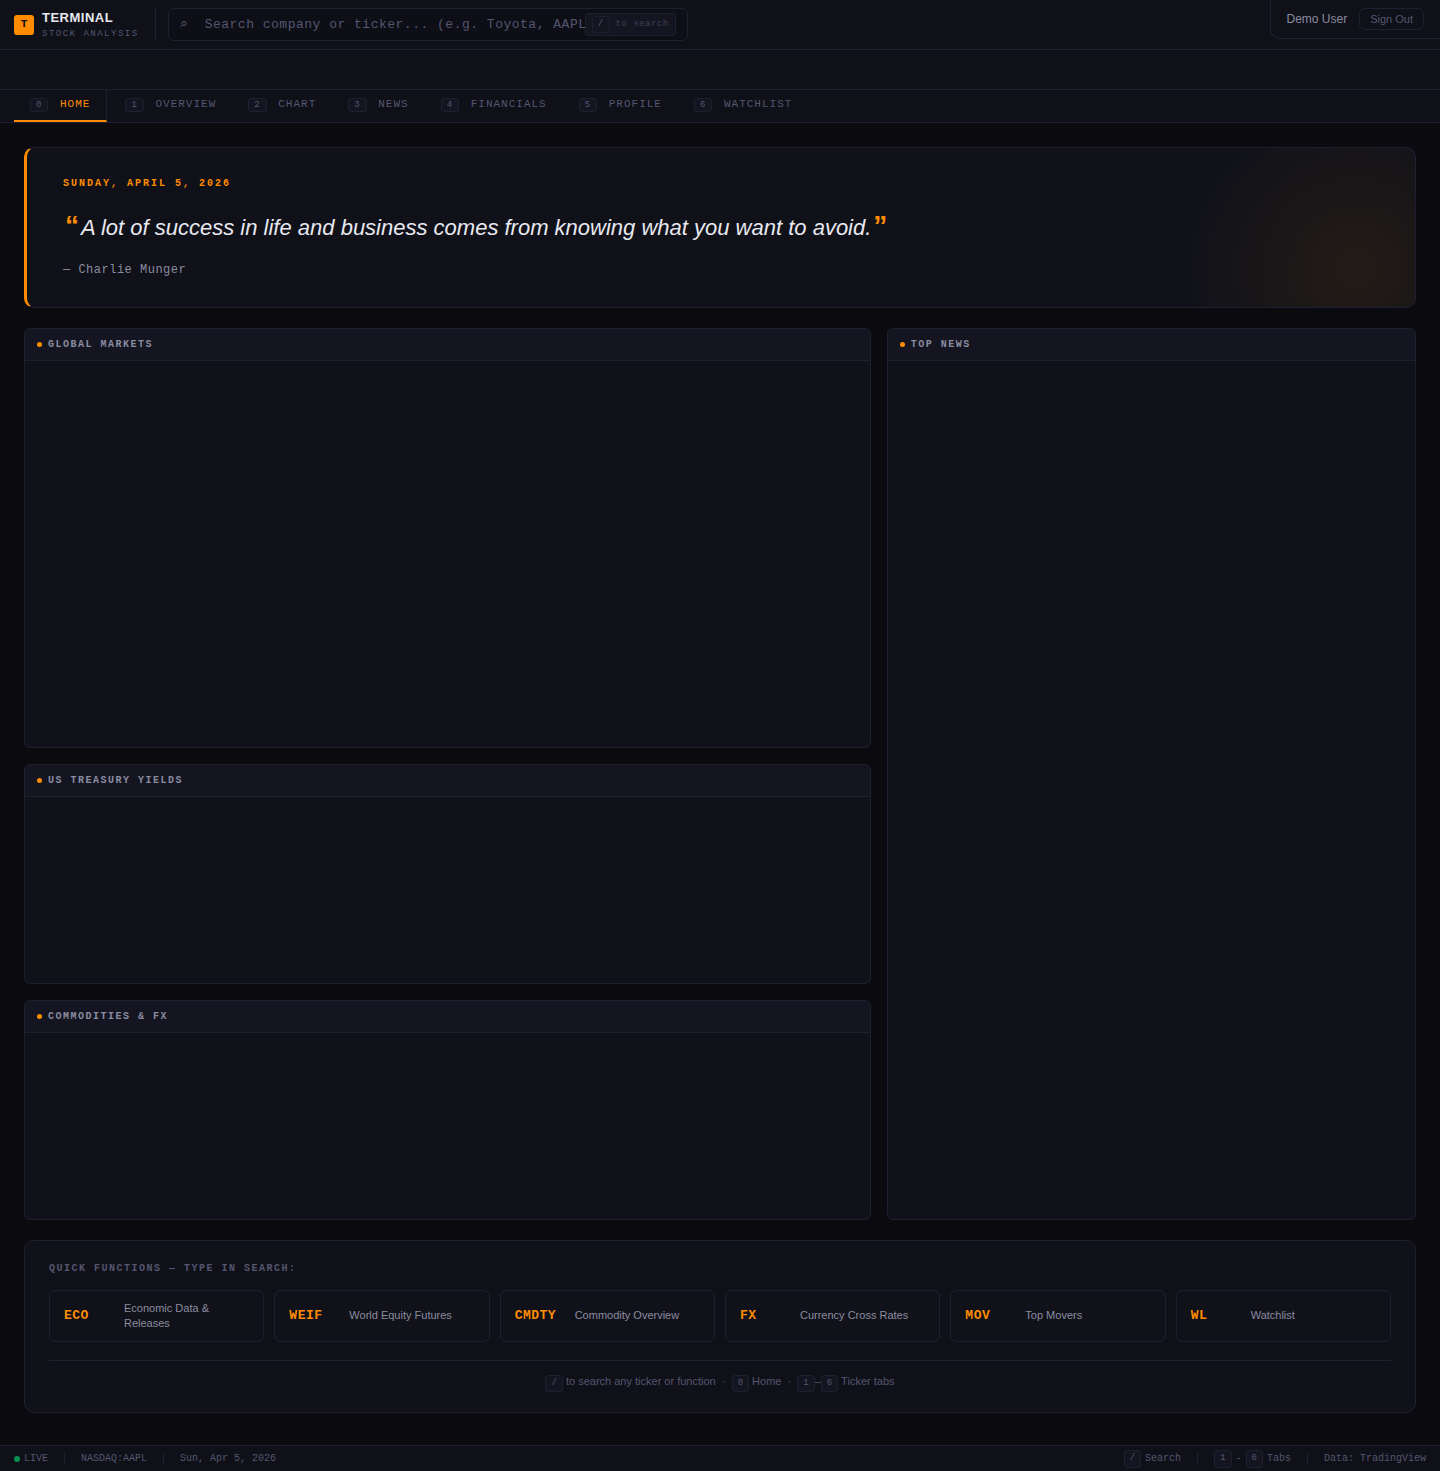
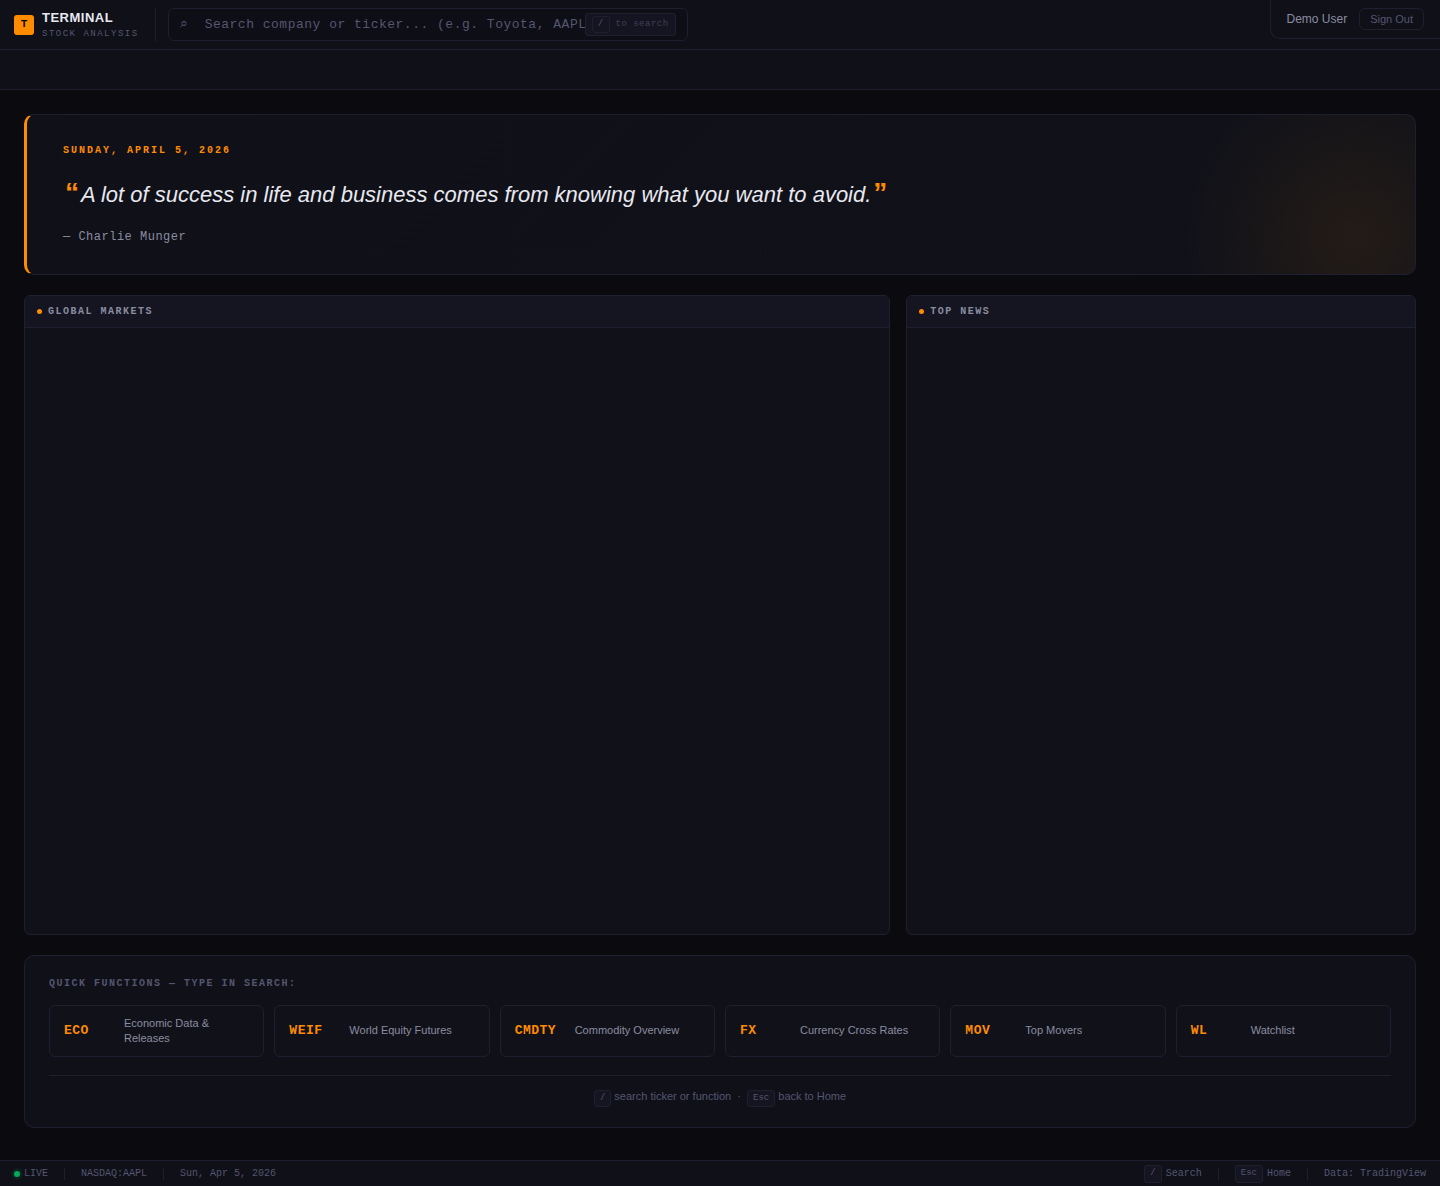
Clean up Home page: curated markets, Escape→Home, hide tabs without symbol
Data fixes:
- Drop US Treasury Yields and Commodities & FX bottom panels (TV embed
  widgets gate bond-yield, CME futures, CBOE:VIX and TVC:DXY data behind
  a TradingView login, so they rendered empty)
- Enlarge Global Markets panel to fill the left column at full height
- Replace CBOE:VIX with TVC:VIX (publicly accessible)
- Remove TVC:DXY from Forex tab (login-gated)
- Replace login-gated Futures + Bonds tabs with Commodities (OANDA spot
  metals + TVC:USOIL/UKOIL) and Crypto (BITSTAMP/BINANCE) — all free

Hotkey / navigation fixes:
- Remove Home tab from nav; numbered tabs (1-6) now only appear after a
  symbol is loaded and disappear again when returning to Home
- Remove the 0 keyboard binding
- Escape now returns to Home (Bloomberg-style); modal-close still takes
  priority when the article modal is open
- 1-6 tab bindings are inert until a ticker is loaded (future work:
  asset-class-aware tab bindings — e.g. different tabs for commodities)
- Symbol bar stays hidden on Home and auto-shows when a ticker is loaded
- Update status-bar hint from "1-6 Tabs" to "Esc Home"

https://claude.ai/code/session_01BafKx9AAMBXJWpF5u4ngU4

diff --git a/app.js b/app.js
@@ -552,7 +552,9 @@ function initTabs() {
 function setActiveTab(tabName) {
   state.activeTab = tabName;
   $$('.nav-tabs__tab').forEach((t) => t.classList.remove('nav-tabs__tab--active'));
-  $(`.nav-tabs__tab[data-tab="${tabName}"]`).classList.add('nav-tabs__tab--active');
+  // Home has no dedicated tab button — guard the lookup.
+  const activeBtn = $(`.nav-tabs__tab[data-tab="${tabName}"]`);
+  if (activeBtn) activeBtn.classList.add('nav-tabs__tab--active');
   destroyLightweightCharts();
   loadTabContent(tabName);
 }
@@ -560,16 +562,20 @@ function setActiveTab(tabName) {
 function loadTabContent(tabName) {
   const dashboard = $('#dashboard');
   const symbolBar = $('#symbol-bar');
+  const navTabs = $('#nav-tabs');
 
-  // Show the active-symbol bar only when viewing a ticker-bound tab.
+  // On Home: hide the stock-context nav-tabs and the symbol bar.
+  // On any ticker tab: show them (tabs stay stock-specific for now;
+  // future: asset-class-aware tab bindings).
   if (tabName === 'home') {
     if (symbolBar) symbolBar.style.display = 'none';
-  } else if (state.symbolLoaded && symbolBar) {
-    symbolBar.style.display = '';
+    if (navTabs) navTabs.style.display = 'none';
+  } else if (state.symbolLoaded) {
+    if (symbolBar) symbolBar.style.display = '';
+    if (navTabs) navTabs.style.display = '';
   }
 
-  // If the user clicks a ticker-bound tab before searching anything,
-  // fall back to the Home page with a hint.
+  // Ticker-bound tab requested without a loaded symbol → fall back to Home.
   if (tabName !== 'home' && !state.symbolLoaded) {
     setActiveTab('home');
     return;
@@ -674,9 +680,8 @@ function renderHome(container) {
         <div class="home-quote__author">— ${escHtml(quote.author)}</div>
       </section>
 
-      <!-- Market Grid -->
+      <!-- Market Grid: Global Markets (left) + Top News (right) -->
       <section class="home-grid">
-        <!-- Major Markets (Indices / Futures / Forex / Bonds tabs) -->
         <div class="panel home-panel home-panel--markets">
           <div class="panel__header">
             <div class="panel__title"><span class="panel__title-dot"></span> Global Markets</div>
@@ -684,28 +689,11 @@ function renderHome(container) {
           <div class="panel__body" id="home-market-overview"></div>
         </div>
 
-        <!-- Top News Feed -->
         <div class="panel home-panel home-panel--news">
           <div class="panel__header">
             <div class="panel__title"><span class="panel__title-dot"></span> Top News</div>
           </div>
           <div class="panel__body" id="home-news-feed"></div>
-        </div>
-
-        <!-- US Yield Curve -->
-        <div class="panel home-panel home-panel--yields">
-          <div class="panel__header">
-            <div class="panel__title"><span class="panel__title-dot"></span> US Treasury Yields</div>
-          </div>
-          <div class="panel__body" id="home-yields"></div>
-        </div>
-
-        <!-- Commodities + FX snapshot -->
-        <div class="panel home-panel home-panel--quotes">
-          <div class="panel__header">
-            <div class="panel__title"><span class="panel__title-dot"></span> Commodities &amp; FX</div>
-          </div>
-          <div class="panel__body" id="home-commodities"></div>
         </div>
       </section>
 
@@ -739,9 +727,8 @@ function renderHome(container) {
           </div>
         </div>
         <div class="home-functions__hint">
-          <span class="kbd">/</span> to search any ticker or function &nbsp;·&nbsp;
-          <span class="kbd">0</span> Home &nbsp;·&nbsp;
-          <span class="kbd">1</span>–<span class="kbd">6</span> Ticker tabs
+          <span class="kbd">/</span> search ticker or function &nbsp;·&nbsp;
+          <span class="kbd">Esc</span> back to Home
         </div>
       </section>
     </div>
@@ -749,11 +736,14 @@ function renderHome(container) {
 
   injectMarketOverview('home-market-overview');
   injectTimeline('home-news-feed');
-  injectYieldCurve('home-yields');
-  injectCommodityQuotes('home-commodities');
 }
 
 // ── Home page widget injectors ──
+// NOTE on symbol curation: TradingView's free embed widgets only display
+// data for symbols that have free public feeds. CME/NYMEX/COMEX futures,
+// CBOE:VIX, TVC:DXY and TVC bond-yield tickers are gated behind a TV
+// login and render as empty rows inside market-overview. We stick to
+// FOREXCOM/INDEX/OANDA/TVC/BITSTAMP/BINANCE which are reliably public.
 function injectMarketOverview(containerId) {
   injectWidget(containerId,
     'https://s3.tradingview.com/external-embedding/embed-widget-market-overview.js',
@@ -783,28 +773,15 @@ function injectMarketOverview(containerId) {
           symbols: [
             { s: 'FOREXCOM:SPXUSD', d: 'S&P 500' },
             { s: 'FOREXCOM:NSXUSD', d: 'NASDAQ 100' },
-            { s: 'FOREXCOM:DJI', d: 'Dow Jones' },
-            { s: 'INDEX:DEU40', d: 'DAX' },
-            { s: 'INDEX:SX5E', d: 'Euro Stoxx 50' },
-            { s: 'INDEX:NKY', d: 'Nikkei 225' },
-            { s: 'INDEX:HSI', d: 'Hang Seng' },
+            { s: 'FOREXCOM:DJI',    d: 'Dow Jones' },
+            { s: 'INDEX:DEU40',     d: 'DAX' },
+            { s: 'INDEX:SX5E',      d: 'Euro Stoxx 50' },
+            { s: 'INDEX:NKY',       d: 'Nikkei 225' },
+            { s: 'INDEX:HSI',       d: 'Hang Seng' },
             { s: 'BMFBOVESPA:IBOV', d: 'Ibovespa' },
-            { s: 'CBOE:VIX', d: 'VIX' },
+            { s: 'TVC:VIX',         d: 'VIX' },
           ],
           originalTitle: 'Indices',
-        },
-        {
-          title: 'Futures',
-          symbols: [
-            { s: 'CME_MINI:ES1!', d: 'S&P 500' },
-            { s: 'CME_MINI:NQ1!', d: 'Nasdaq 100' },
-            { s: 'CBOT_MINI:YM1!', d: 'Dow' },
-            { s: 'NYMEX:CL1!', d: 'Crude Oil' },
-            { s: 'COMEX:GC1!', d: 'Gold' },
-            { s: 'COMEX:SI1!', d: 'Silver' },
-            { s: 'NYMEX:NG1!', d: 'Nat Gas' },
-          ],
-          originalTitle: 'Futures',
         },
         {
           title: 'Forex',
@@ -815,22 +792,33 @@ function injectMarketOverview(containerId) {
             { s: 'FX:USDCHF', d: 'USD/CHF' },
             { s: 'FX:AUDUSD', d: 'AUD/USD' },
             { s: 'FX:USDCAD', d: 'USD/CAD' },
-            { s: 'TVC:DXY',    d: 'Dollar Index' },
+            { s: 'FX:NZDUSD', d: 'NZD/USD' },
           ],
           originalTitle: 'Forex',
         },
         {
-          title: 'Bonds',
+          title: 'Commodities',
           symbols: [
-            { s: 'TVC:US02Y', d: 'US 2Y' },
-            { s: 'TVC:US05Y', d: 'US 5Y' },
-            { s: 'TVC:US10Y', d: 'US 10Y' },
-            { s: 'TVC:US30Y', d: 'US 30Y' },
-            { s: 'TVC:DE10Y', d: 'Bund 10Y' },
-            { s: 'TVC:GB10Y', d: 'Gilt 10Y' },
-            { s: 'TVC:JP10Y', d: 'JGB 10Y' },
+            { s: 'OANDA:XAUUSD', d: 'Gold' },
+            { s: 'OANDA:XAGUSD', d: 'Silver' },
+            { s: 'TVC:USOIL',    d: 'WTI Crude' },
+            { s: 'TVC:UKOIL',    d: 'Brent Crude' },
+            { s: 'OANDA:XPTUSD', d: 'Platinum' },
+            { s: 'OANDA:XPDUSD', d: 'Palladium' },
           ],
-          originalTitle: 'Bonds',
+          originalTitle: 'Commodities',
+        },
+        {
+          title: 'Crypto',
+          symbols: [
+            { s: 'BITSTAMP:BTCUSD',  d: 'Bitcoin' },
+            { s: 'BITSTAMP:ETHUSD',  d: 'Ethereum' },
+            { s: 'BINANCE:SOLUSDT',  d: 'Solana' },
+            { s: 'BINANCE:BNBUSDT',  d: 'BNB' },
+            { s: 'BINANCE:XRPUSDT',  d: 'XRP' },
+            { s: 'BINANCE:ADAUSDT',  d: 'Cardano' },
+          ],
+          originalTitle: 'Crypto',
         },
       ],
     }
@@ -846,69 +834,6 @@ function injectTimeline(containerId) {
       displayMode: 'regular',
       width: '100%',
       height: '100%',
-      colorTheme: 'dark',
-      locale: 'en',
-    }
-  );
-}
-
-function injectYieldCurve(containerId) {
-  injectWidget(containerId,
-    'https://s3.tradingview.com/external-embedding/embed-widget-market-quotes.js',
-    {
-      width: '100%',
-      height: '100%',
-      symbolsGroups: [
-        {
-          name: 'US Treasury Yields',
-          originalName: 'US Treasury Yields',
-          symbols: [
-            { name: 'TVC:US02Y', displayName: '2-Year' },
-            { name: 'TVC:US05Y', displayName: '5-Year' },
-            { name: 'TVC:US10Y', displayName: '10-Year' },
-            { name: 'TVC:US30Y', displayName: '30-Year' },
-          ],
-        },
-      ],
-      showSymbolLogo: false,
-      isTransparent: true,
-      colorTheme: 'dark',
-      locale: 'en',
-    }
-  );
-}
-
-function injectCommodityQuotes(containerId) {
-  injectWidget(containerId,
-    'https://s3.tradingview.com/external-embedding/embed-widget-market-quotes.js',
-    {
-      width: '100%',
-      height: '100%',
-      symbolsGroups: [
-        {
-          name: 'Commodities',
-          originalName: 'Commodities',
-          symbols: [
-            { name: 'COMEX:GC1!',   displayName: 'Gold' },
-            { name: 'COMEX:SI1!',   displayName: 'Silver' },
-            { name: 'NYMEX:CL1!',   displayName: 'Crude Oil' },
-            { name: 'NYMEX:NG1!',   displayName: 'Nat Gas' },
-            { name: 'COMEX:HG1!',   displayName: 'Copper' },
-          ],
-        },
-        {
-          name: 'FX Majors',
-          originalName: 'FX Majors',
-          symbols: [
-            { name: 'FX:EURUSD',  displayName: 'EUR/USD' },
-            { name: 'FX:GBPUSD',  displayName: 'GBP/USD' },
-            { name: 'FX:USDJPY',  displayName: 'USD/JPY' },
-            { name: 'TVC:DXY',    displayName: 'Dollar Index' },
-          ],
-        },
-      ],
-      showSymbolLogo: false,
-      isTransparent: true,
       colorTheme: 'dark',
       locale: 'en',
     }
@@ -1772,7 +1697,16 @@ function initKeyboardShortcuts() {
 
     // Escape closes article modal
     if (e.key === 'Escape') {
-      closeArticleModal();
+      // Priority 1: close article modal if open
+      const modal = document.getElementById('article-modal');
+      if (modal && modal.classList.contains('article-modal--visible')) {
+        closeArticleModal();
+        return;
+      }
+      // Priority 2: return to Home (Bloomberg-style)
+      if (state.activeTab !== 'home') {
+        setActiveTab('home');
+      }
       return;
     }
 
@@ -1782,10 +1716,9 @@ function initKeyboardShortcuts() {
       $('#ticker-input').focus();
     }
 
-    // 0 = Home, 1-6 = ticker tabs
-    if (e.key === '0') {
-      setActiveTab('home');
-    } else if (e.key >= '1' && e.key <= '6') {
+    // 1-6 = ticker tabs (only active when a symbol is loaded).
+    // Bindings are stock-context for now; future: asset-class-aware.
+    if (e.key >= '1' && e.key <= '6' && state.symbolLoaded) {
       const tabs = ['overview', 'chart', 'news', 'financials', 'profile', 'watchlist'];
       const idx = parseInt(e.key) - 1;
       if (tabs[idx]) setActiveTab(tabs[idx]);

diff --git a/styles.css b/styles.css
@@ -2212,16 +2212,12 @@ body {
   letter-spacing: 0.5px;
 }
 
-/* ── Market Grid ── */
+/* ── Market Grid (2-column: Global Markets + Top News) ── */
 .home-grid {
   display: grid;
   gap: 16px;
-  grid-template-columns: 1.6fr 1fr;
-  grid-template-rows: minmax(420px, 1.2fr) minmax(220px, auto) minmax(220px, auto);
-  grid-template-areas:
-    "markets news"
-    "yields  news"
-    "commod  news";
+  grid-template-columns: 1.7fr 1fr;
+  grid-template-rows: minmax(640px, auto);
 }
 
 .home-panel {
@@ -2231,20 +2227,11 @@ body {
   overflow: hidden;
 }
 
-.home-panel--markets { grid-area: markets; }
-.home-panel--news    { grid-area: news; }
-.home-panel--yields  { grid-area: yields; }
-.home-panel--quotes  { grid-area: commod; }
-
 .home-panel .panel__body {
   flex: 1;
   min-height: 0;
   padding: 0;
   overflow: hidden;
-}
-
-.home-panel--news .panel__body {
-  padding: 0;
 }
 
 /* ── Function Hints ── */
@@ -2315,26 +2302,11 @@ body {
   border-top: 1px solid var(--border-primary);
 }
 
-/* ── Home tab button styling (distinct highlight) ── */
-.nav-tabs__tab--home {
-  border-right: 1px solid var(--border-primary);
-  margin-right: 2px;
-}
-
-.nav-tabs__tab--home.nav-tabs__tab--active {
-  color: var(--accent);
-}
-
 /* ── Responsive ── */
 @media (max-width: 1100px) {
   .home-grid {
-    grid-template-areas:
-      "markets"
-      "news"
-      "yields"
-      "commod";
     grid-template-columns: 1fr;
-    grid-template-rows: minmax(380px, auto) minmax(360px, auto) minmax(220px, auto) minmax(220px, auto);
+    grid-template-rows: minmax(500px, auto) minmax(400px, auto);
   }
 }
 

diff --git a/index.html b/index.html
@@ -190,12 +190,9 @@
     <span class="text-muted" style="font-size: 11px;" id="symbol-exchange">NASDAQ</span>
   </div>
 
-  <!-- ══════════ NAV TABS ══════════ -->
-  <nav class="nav-tabs" id="nav-tabs">
-    <button class="nav-tabs__tab nav-tabs__tab--home nav-tabs__tab--active" data-tab="home">
-      <span class="kbd" style="margin-right:4px">0</span> Home
-    </button>
-    <button class="nav-tabs__tab" data-tab="overview">
+  <!-- ══════════ NAV TABS (stock-context tabs, hidden on Home) ══════════ -->
+  <nav class="nav-tabs" id="nav-tabs" style="display:none">
+    <button class="nav-tabs__tab nav-tabs__tab--active" data-tab="overview">
       <span class="kbd" style="margin-right:4px">1</span> Overview
     </button>
     <button class="nav-tabs__tab" data-tab="chart">
@@ -238,7 +235,7 @@
       </span>
       <span class="status-bar__separator"></span>
       <span class="status-bar__item text-muted">
-        <span class="kbd">1</span>-<span class="kbd">6</span> Tabs
+        <span class="kbd">Esc</span> Home
       </span>
       <span class="status-bar__separator"></span>
       <span class="status-bar__item text-muted" id="status-datasource">Data: TradingView</span>
